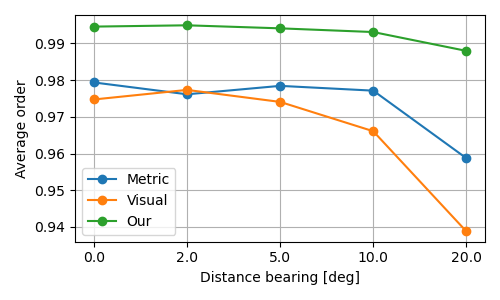
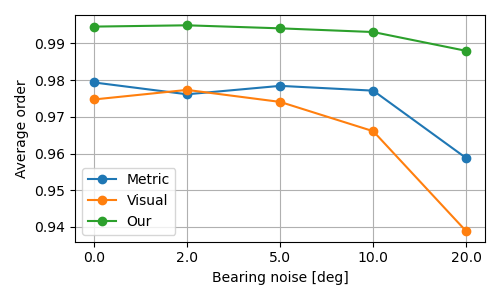
Modify readme

Changed region(s): [[0.39, 0.9, 0.72, 0.96]]

diff --git a/README.md b/README.md
@@ -35,3 +35,18 @@ python animation.py
 | :---:        |     :---:      |
 |  <a href="results/vision_True.gif"><img src="results/vision_False.gif" alt="Vision-based Voronoi neighbor selection" width="100%" ></a>   | <a href="results/vision_False.gif"><img src="results/vision_True.gif" alt="Vision-based Voronoi neighbor selection" width="100%" ></a>    |
 
+## Comparison
+### Paths
+| Vision-based neighbor selection | Vision-based Voronoi neighbor selection |
+| :---:        |     :---:      |
+|  <img src="results/vision_False.png" alt="Vision-based Voronoi neighbor selection" width="100%" >   | <img src="results/vision_True.png" alt="Vision-based Voronoi neighbor selection" width="100%" >    |
+
+### Scalability
+|  |  |
+| :---:        |     :---:      |
+|  <img src="results/number_order.png" alt="Vision-based Voronoi neighbor selection" width="100%" >   | <img src="results/number_neighbor.png" alt="Vision-based Voronoi neighbor selection" width="100%" >    |
+
+### Noise
+|  |  |
+| :---:        |     :---:      |
+|  <img src="results/noise_dis_order.png" alt="Vision-based Voronoi neighbor selection" width="100%" >   | <img src="results/noise_bea_order.png" alt="Vision-based Voronoi neighbor selection" width="100%" >    |
